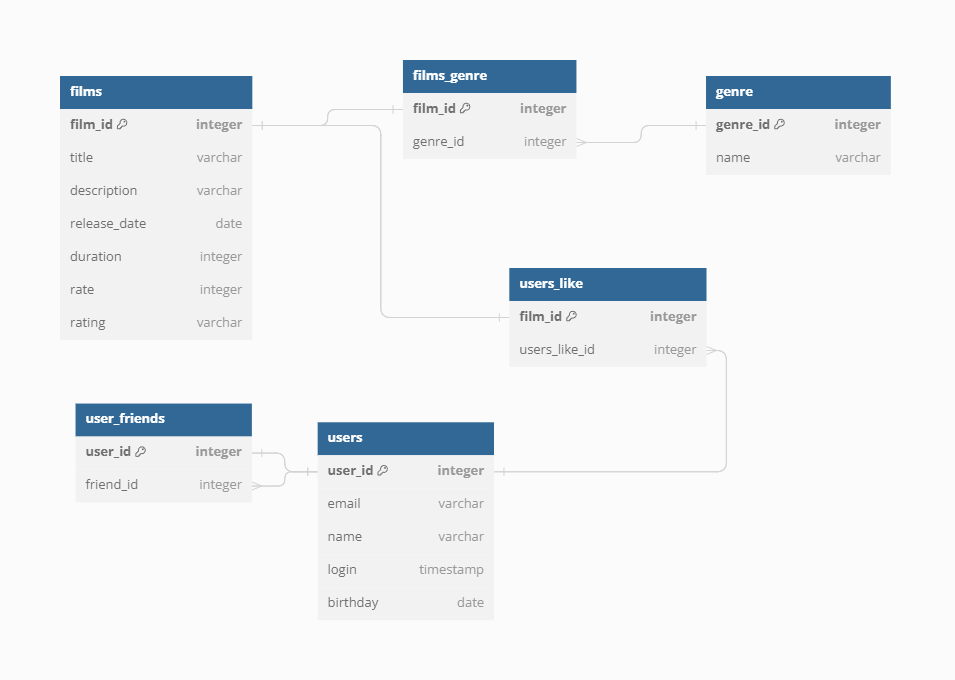
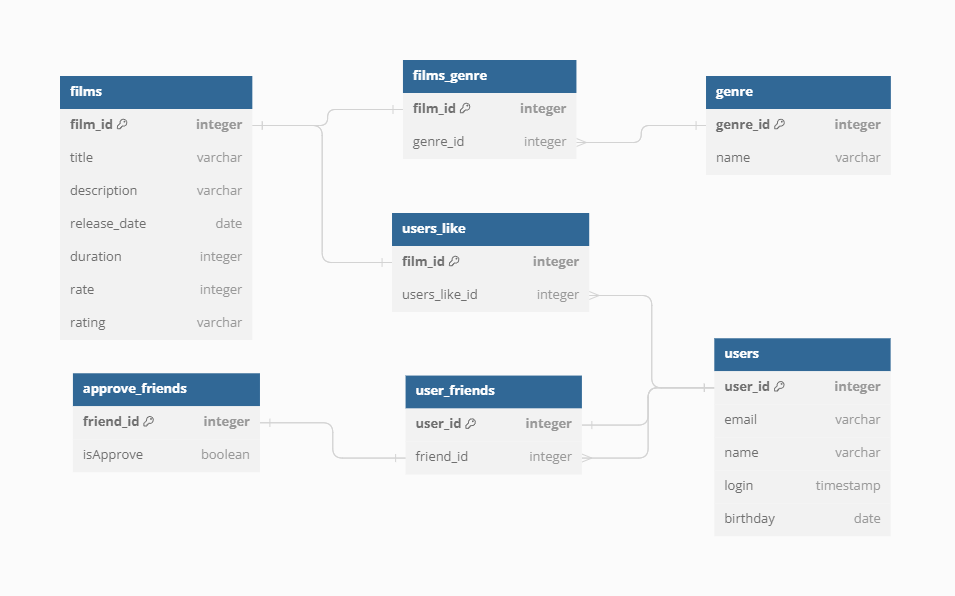
fix: исправление диаграммы

diff --git a/src/main/java/ru/yandex/practicum/filmorate/service/UserService.java b/src/main/java/ru/yandex/practicum/filmorate/service/UserService.java
@@ -8,8 +8,9 @@ import ru.yandex.practicum.filmorate.model.User;
 import ru.yandex.practicum.filmorate.storage.UserStorage;
 
 import java.util.ArrayList;
+import java.util.LinkedHashMap;
 import java.util.List;
-import java.util.stream.Collectors;
+import java.util.Map;
 
 @Service
 public class UserService {
@@ -39,14 +40,14 @@ public class UserService {
         User user = storage.getUser(userId);
         User friend = storage.getUser(friendId);
 
-        if (user.getFriends().contains(friendId)) {
+        if (user.getFriends().containsKey(friendId)) {
             throw new IllegalArgumentException("Данный пользователь уже добавлен в друзья");
         }
         user = user.toBuilder()
-                .friend(friendId)
+                .friend(friendId, true)
                 .build();
         friend = friend.toBuilder()
-                .friend(userId)
+                .friend(userId, true)
                 .build();
 
         storage.putUser(userId, user);
@@ -63,22 +64,22 @@ public class UserService {
         User user = storage.getUser(userId);
         User friend = storage.getUser(friendId);
 
-        if (!user.getFriends().contains(friendId)) {
+        if (!user.getFriends().containsKey(friendId)) {
             throw new IllegalArgumentException("Данный пользователь еще не добавлен в друзья");
         }
-        final List<Integer> userList = user.getFriends().stream()
-                .filter(integer -> !integer.equals(friendId))
-                .collect(Collectors.toList());
-        final List<Integer> friendList = friend.getFriends().stream()
-                .filter(integer -> !integer.equals(userId))
-                .collect(Collectors.toList());
+        final Map<Integer, Boolean> userFriends = new LinkedHashMap<>(user.getFriends());
+        userFriends.remove(friendId);
+
+        final Map<Integer, Boolean> otherFriends = new LinkedHashMap<>(friend.getFriends());
+        otherFriends.remove(userId);
+
         user = user.toBuilder()
                 .clearFriends()
-                .friends(userList)
+                .friends(userFriends)
                 .build();
         friend = friend.toBuilder()
                 .clearFriends()
-                .friends(friendList)
+                .friends(otherFriends)
                 .build();
 
         storage.putUser(userId, user);
@@ -92,7 +93,7 @@ public class UserService {
         final List<User> friends = new ArrayList<>();
         final User user = storage.getUser(userId);
 
-        for (Integer friend : user.getFriends()) {
+        for (Integer friend : user.getFriends().keySet()) {
             friends.add(storage.getUser(friend));
         }
         return friends;
@@ -109,8 +110,8 @@ public class UserService {
         final User user = storage.getUser(userId);
         final User other = storage.getUser(otherId);
 
-        for (Integer friend : user.getFriends()) {
-            if (other.getFriends().contains(friend)) {
+        for (Integer friend : user.getFriends().keySet()) {
+            if (other.getFriends().containsKey(friend)) {
                 mutualFriends.add(storage.getUser(friend));
             }
         }
